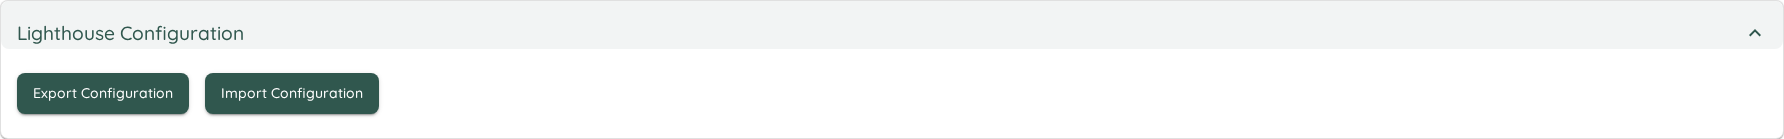
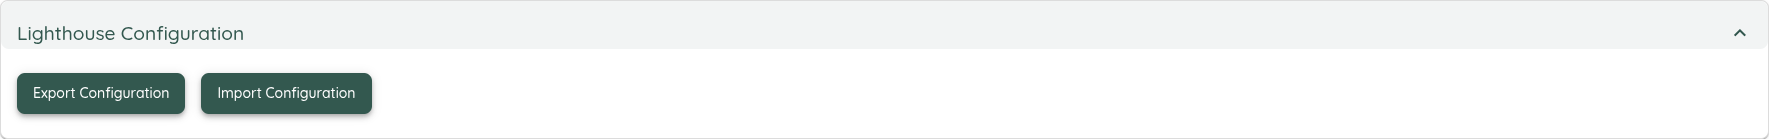
Update docs with new System Info tab

Changed region(s): [[0.0, 0.518, 0.2176, 0.8633], [0.0, 0.1727, 0.1555, 0.3165]]

diff --git a/Lighthouse.EndToEndTests/tests/specs/screenshots/Screenshots.spec.ts b/Lighthouse.EndToEndTests/tests/specs/screenshots/Screenshots.spec.ts
@@ -252,7 +252,7 @@ test("Take @screenshot of setting pages", async ({ overviewPage }) => {
 
 	const systemSettings = await settingsPage.goToSystemConfiguration();
 
-	await takePageScreenshot(systemSettings.page, "settings/systemsettings.png");
+	await takePageScreenshot(systemSettings.page, "settings/configuration.png");
 
 	await takeElementScreenshot(
 		systemSettings.lighthouseConfiguration,
@@ -279,7 +279,7 @@ test("Take @screenshot of setting pages", async ({ overviewPage }) => {
 	);
 
 	const logs = await settingsPage.goToSystemInfo();
-	await takePageScreenshot(logs.page, "settings/logs.png");
+	await takePageScreenshot(logs.page, "settings/systeminfo.png");
 });
 
 testWithData(

diff --git a/docs/settings/systeminfo.md b/docs/settings/systeminfo.md
@@ -1,15 +1,25 @@
 ---
-title: Logs
+title: System Info
 layout: home
-parent: Settings
+parent: System Settings
 nav_order: 6
 ---
 
-# Logs
+# System Info
+The *System Info* tab gives you an overview over your system:
+![System Info](../assets/settings/systeminfo.png)
+
+## System Info
+Here you can see details about the Lighthouse instance you are running.
+
+{: .note}
+You can click on any of the values, and it will copy them.
+
+You also have a link to the API documentation, which will bring you to a swagger page detailing all the API endpoints of Lighthouse.
+
+## Logs
 We really hope you don't need this...but then again, Software is complex and it's very possible that once you run into a problem and need some more details on what was going on (or we ask for this info to better find the problem).  
 For this case, you can check the *Logs*.
-
-![Logs](../assets/settings/logs.png)
 
 ## Log Level
 Log levels describe the level of detail that should end up in the log. The more "sensitive", the more messages will be added. Following *Log Levels* can be selected:

diff --git a/docs/settings/settings.md b/docs/settings/settings.md
@@ -11,7 +11,7 @@ Lighthouse has various options to fine-tune it based on your needs. This section
 
 ## Configuration Areas
 
-### [Configuration](systemsettings.html)
+### [Configuration](configuration.html)
 General application settings that affect the overall Lighthouse behavior, including:
 - Configuration export/import
 - Optional features
@@ -21,5 +21,5 @@ General application settings that affect the overall Lighthouse behavior, includ
 ### [Demo Data](demodata.html)
 Load sample scenarios to explore Lighthouse features or for training purposes. Various scenarios are available covering different team situations and use cases.
 
-### [Logs](logs.html)
-Access detailed logging information for troubleshooting and monitoring Lighthouse operations, including log level configuration and log viewing capabilities.
+### [System Info](systeminfo.html)
+Access detailed information about your system as well as logging information for troubleshooting and monitoring Lighthouse operations, including log level configuration and log viewing capabilities.

diff --git a/docs/settings/configuration.md b/docs/settings/configuration.md
@@ -1,14 +1,14 @@
 ---
-title: System Settings
+title: Configuration
 layout: home
-parent: Settings
+parent: System Settings
 nav_order: 2
 ---
 
-# System Settings
-The System Settings Page shows some generally applicable settings that affect the overall Lighthouse behaviour.
+# Configuration
+The Configuration Page shows some generally applicable settings that affect the overall Lighthouse behaviour.
 
-![System Settings](../../assets/settings/systemsettings.png)
+![Configuration](../../assets/settings/configuration.png)
 
 ## Lighthouse Configuration
 This section allows you to export your configuration to a file, as well as import it back into your Lighthouse instance.

diff --git a/docs/releasenotes/releasenotes.md b/docs/releasenotes/releasenotes.md
@@ -13,9 +13,10 @@ Screenshot (manually)
 
 ## Scoped Access Token Support for Jira Connections
 Support for scoped tokens (e.g. when using service accounts)
-Screenshot (manually)
 
-Constraints (Boards), link to docs.
+![Scoped Token Access](https://raw.githubusercontent.com/LetPeopleWork/Lighthouse/refs/heads/main/docs/releasenotes/ScopedAccessToken.png)
+
+Constraints (Boards not supported), link to docs --> https://docs.lighthouse.letpeople.work/concepts/worktrackingsystems/jira.html#jira-cloud-scoped-access-token
 
 ## System Info
 Rename Logs --> System Info

diff --git a/docs/settings/demodata.md b/docs/settings/demodata.md
@@ -1,7 +1,7 @@
 ---
 title: Demo Data
 layout: home
-parent: Settings
+parent: System Settings
 nav_order: 3
 ---
 
